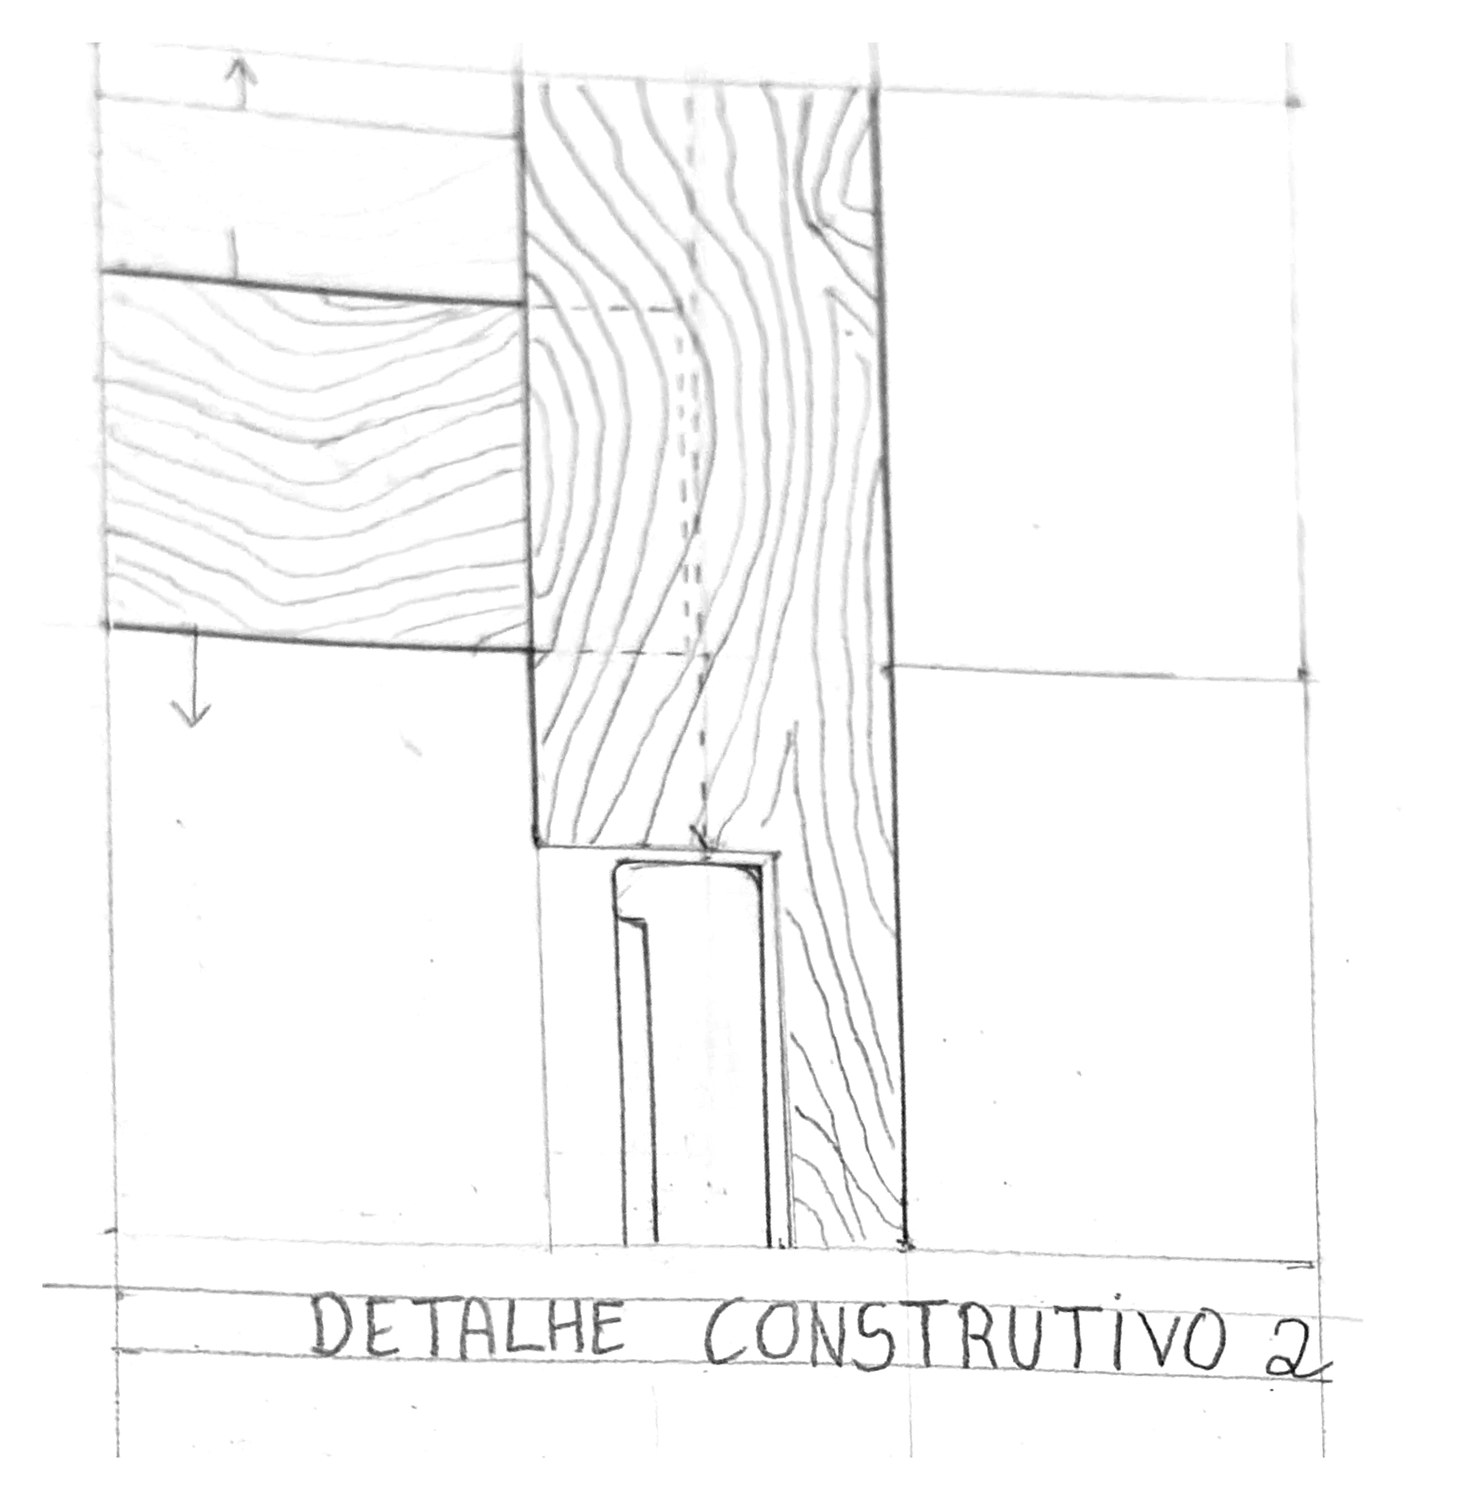
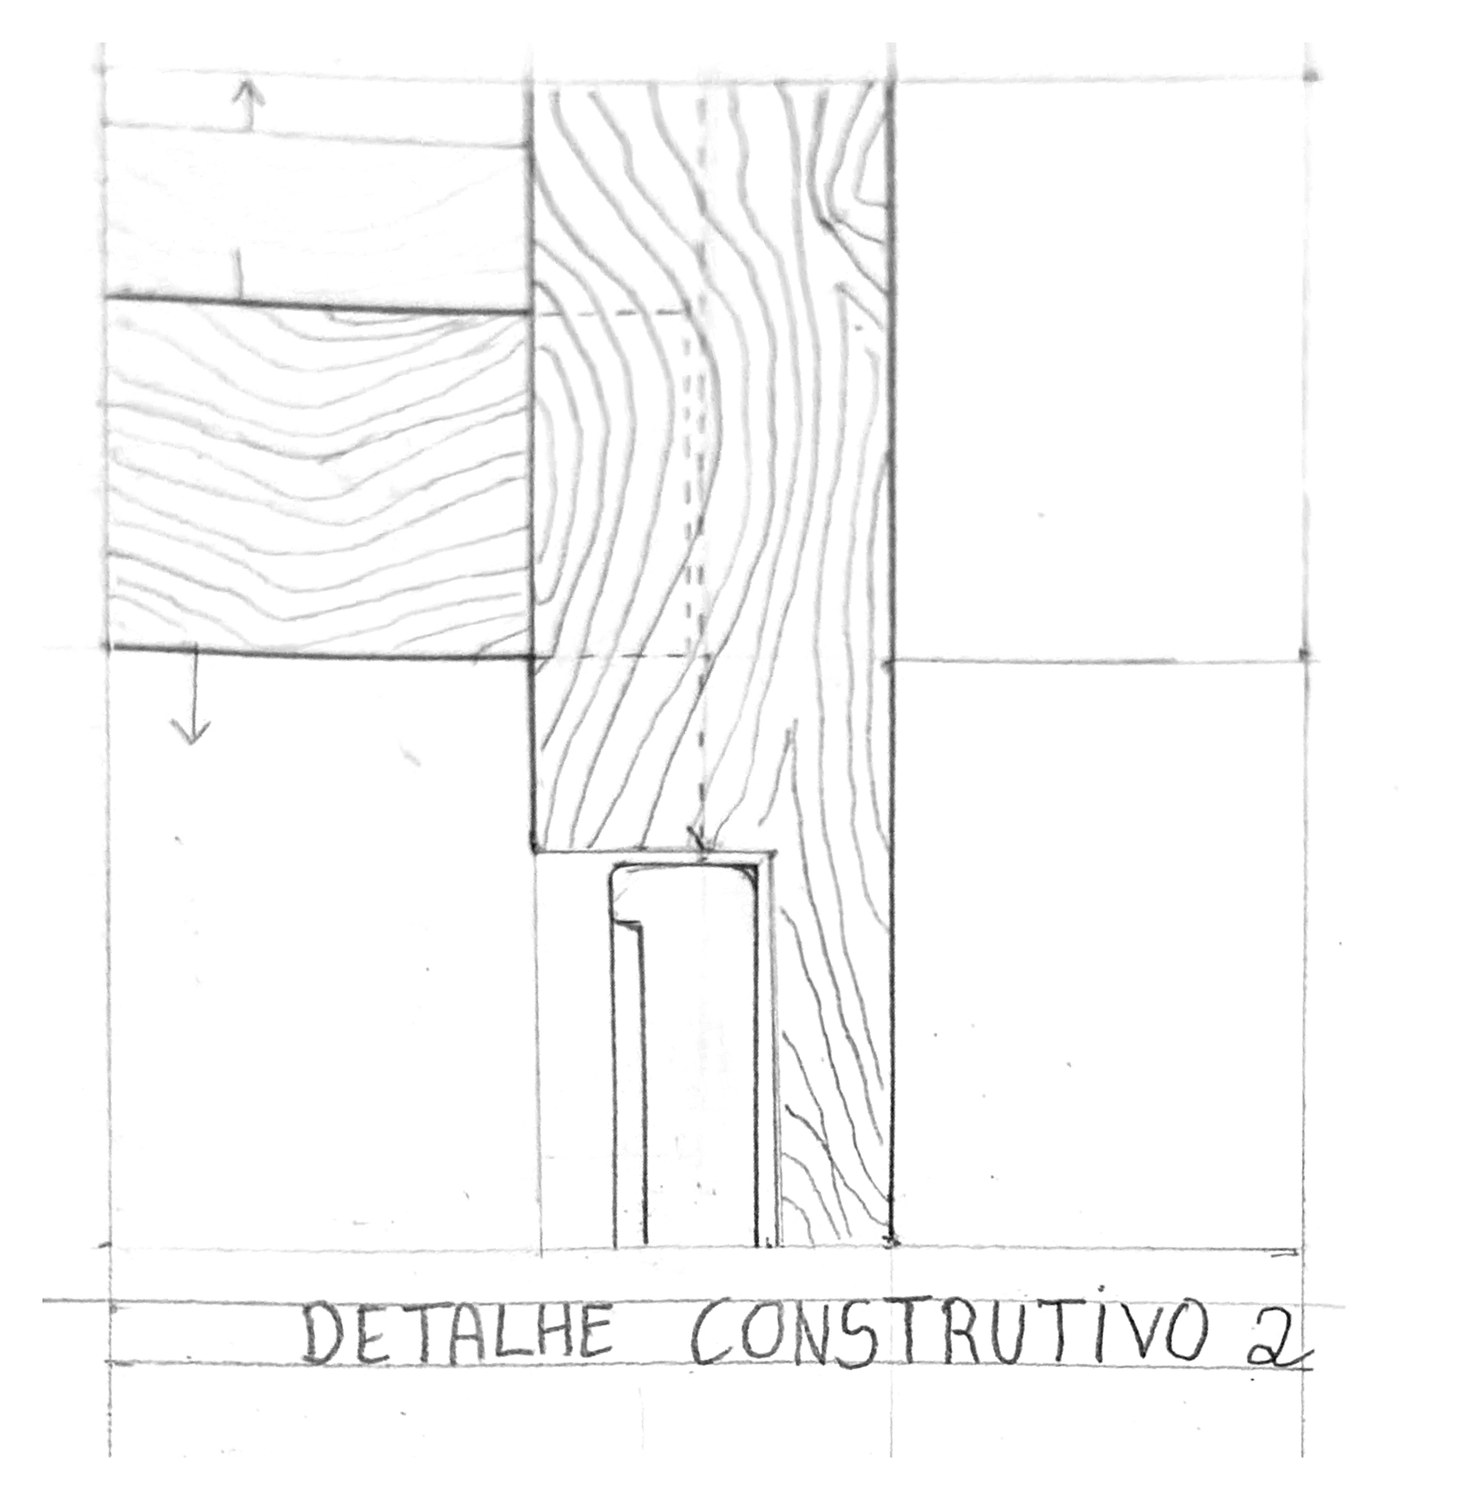
interiores de barcos: formador, disciplina e fotografias endireitadas
FICHA
- Rui Canela sai; Jacopo Marchesoni passa a "formador" (campo novo).
- disciplina passa a "design de interiores de barcos".
- Campo "Formador" novo no painel e linha "formador" na ficha tecnica do
  site. A etiqueta "orientacao" nao foi alterada porque outro projeto
  (estudo bloco 8) a usa.

FOTOGRAFIAS TORTAS
Medidas as inclinacoes reais das linhas em cada imagem (perfis de projecao por
zonas): todas tinham 1 a 4 graus e o valor variava dentro da mesma imagem, ou
seja, nao era so rotacao mas tambem perspetiva.
- Planta e cortes: 2.05 graus na planta e no corte C, 1.03 no corte A (foram
  desenhados ligeiramente diferentes um do outro), verticais sem inclinacao.
- Bancada: horizontais a +0.5..+1.0 e verticais em leque, de +3.0 graus na
  esquerda a -0.3 na direita.
- Detalhes: a homografia anterior tinha acrescentado inclinacao (ate 4.5
  graus no topo); corrigida a coluna inteira antes de a cortar em tres.
Correcao por malha de celulas de 32 px que segue a variacao medida. Depois da
correcao, todas as horizontais medem 0.00 e, onde ha linhas verticais
mensuraveis, tambem. Conferido a olho com uma grelha por cima.
Capa refeita a partir da planta ja endireitada e recentrada no conteudo.
O conteudo dos desenhos nao e alterado.

diff --git a/js/projeto.js b/js/projeto.js
@@ -36,7 +36,8 @@
   const creditos = [
     ['colaboração', projeto.colaboracao],
     ['fotografia', projeto.fotografia],
-    ['orientação', projeto.orientacao]
+    ['orientação', projeto.orientacao],
+    ['formador', projeto.formador]
   ].filter(([, valor]) => valor);
 
   const coluna = pares => pares.length
